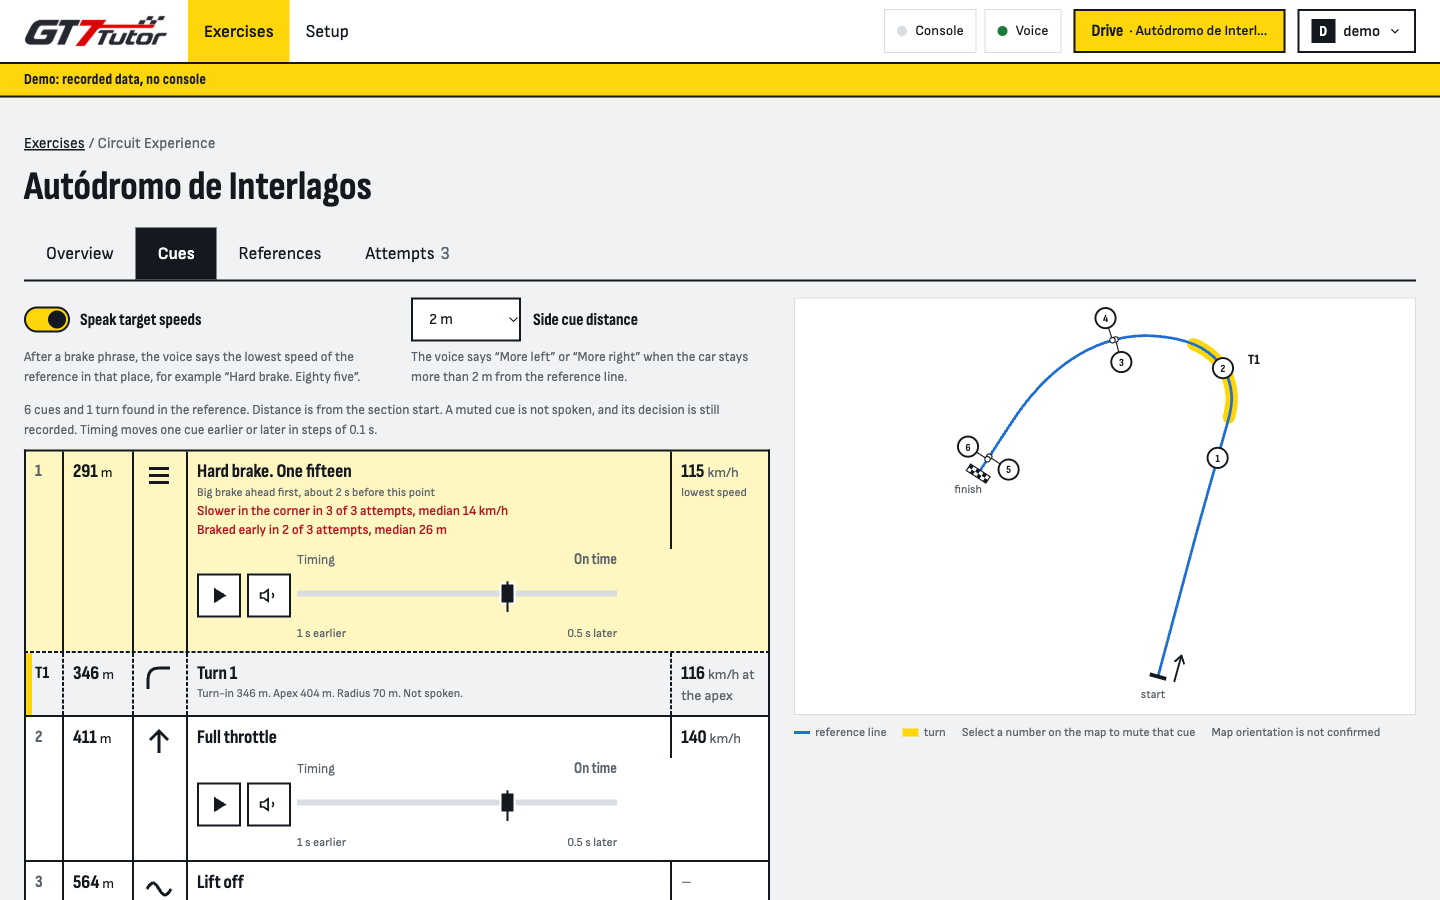
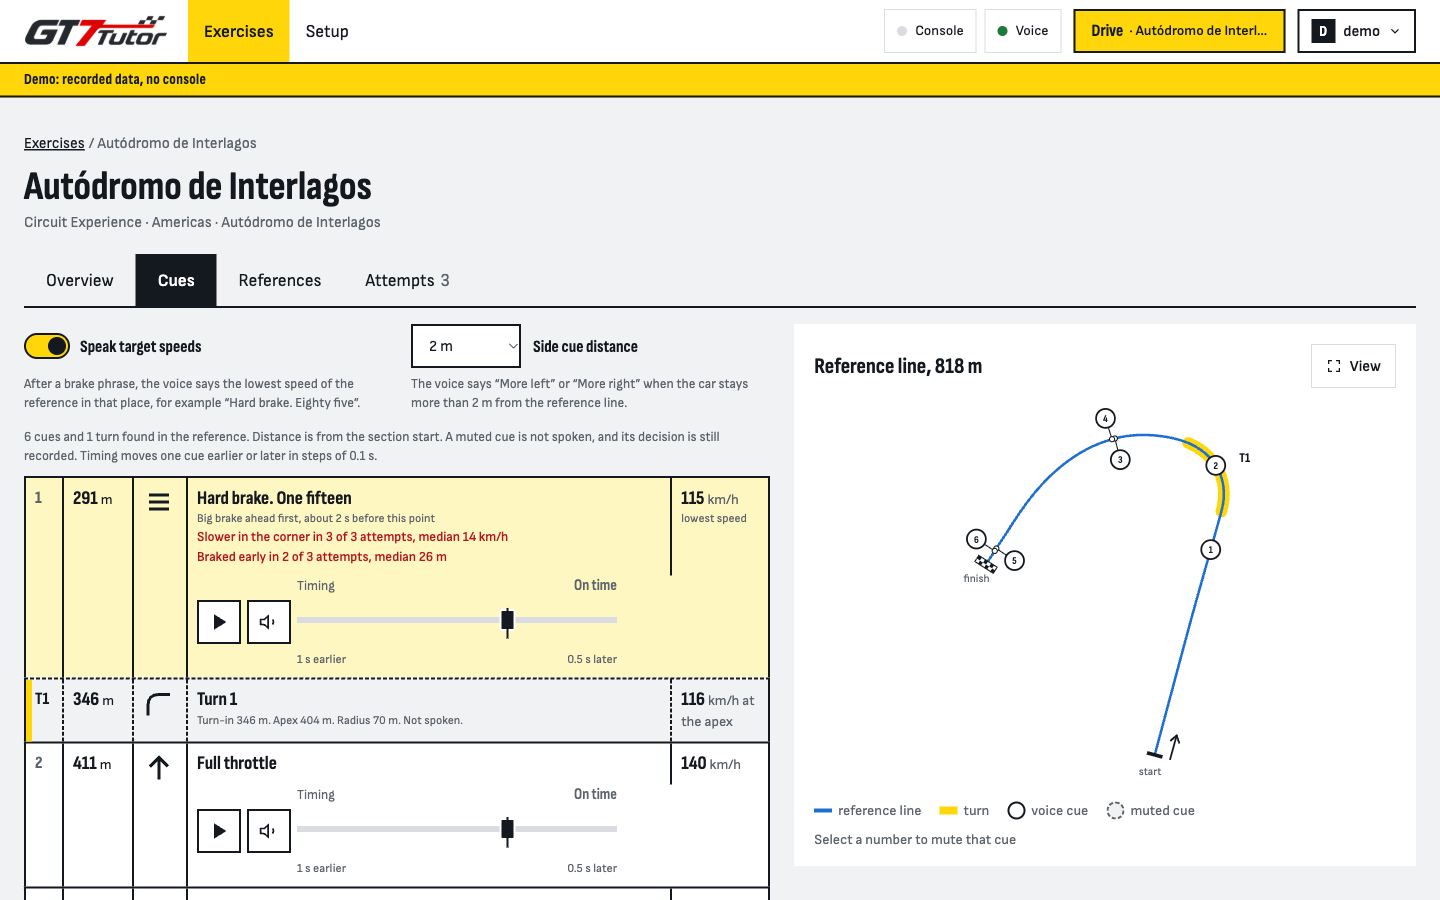
fix: show the current screens in the screenshots

diff --git a/site/index.html b/site/index.html
@@ -86,7 +86,7 @@
           <h3><span class="step-number">3</span>Review</h3>
           <p>Compare each attempt with the reference on a map and in linked speed, pedal and side-distance charts. The review groups the differences by turn and shows the time lost in each turn. A difference is not always a mistake: the reference is one recorded drive, not the best possible line.</p>
         </div>
-        <img src="assets/screenshots/review-desktop.webp" alt="The review of a demo attempt: the map with the reference line in blue and the attempt in orange, the differences by turn with 0.36 s lost in turn 1, the corner at the apex, and the speed chart." width="1440" height="900" loading="lazy">
+        <img src="assets/screenshots/review-desktop.webp" alt="The review of a demo attempt: the exercise header with its tabs, the map with the reference line in blue and the attempt in orange, and the differences by turn with 0.36 s lost in turn 1." width="1440" height="900" loading="lazy">
       </li>
     </ol>
   </section>
